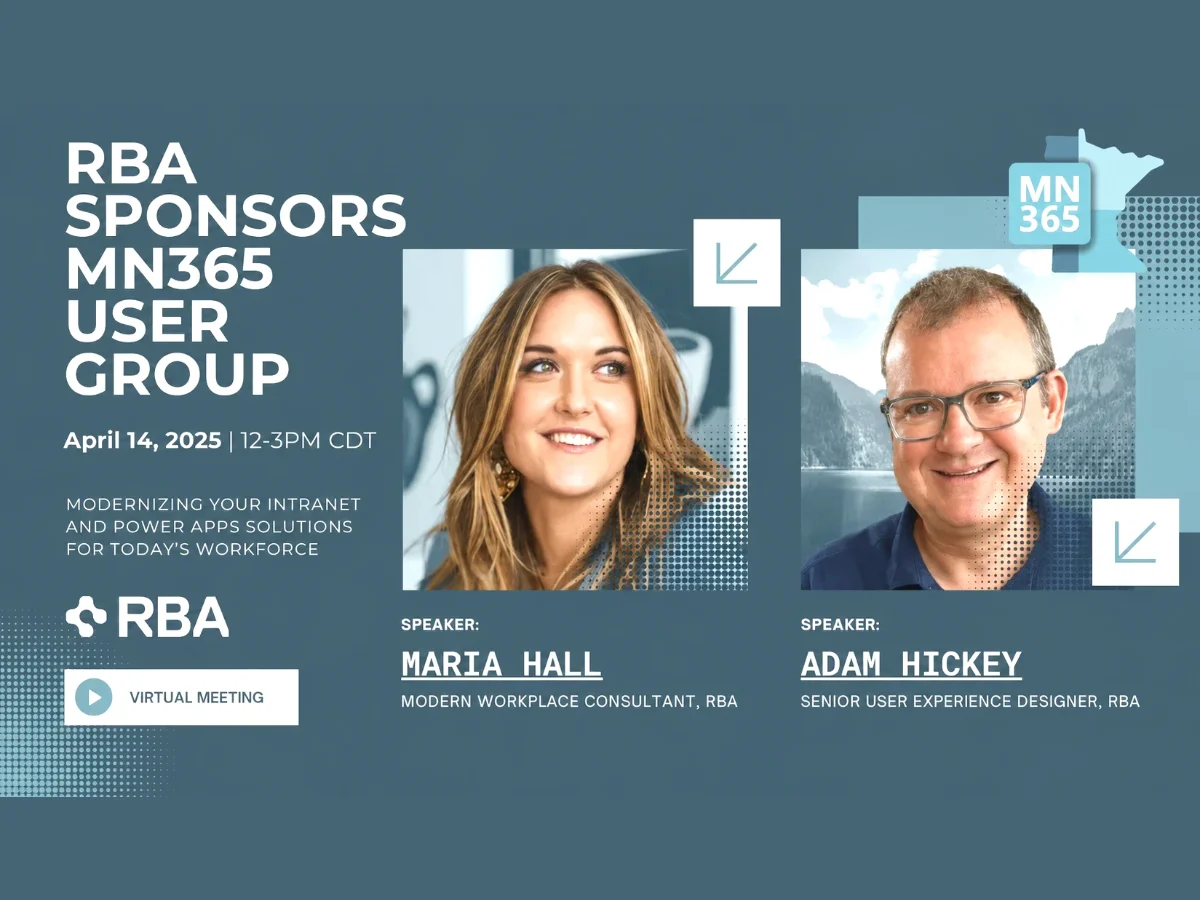
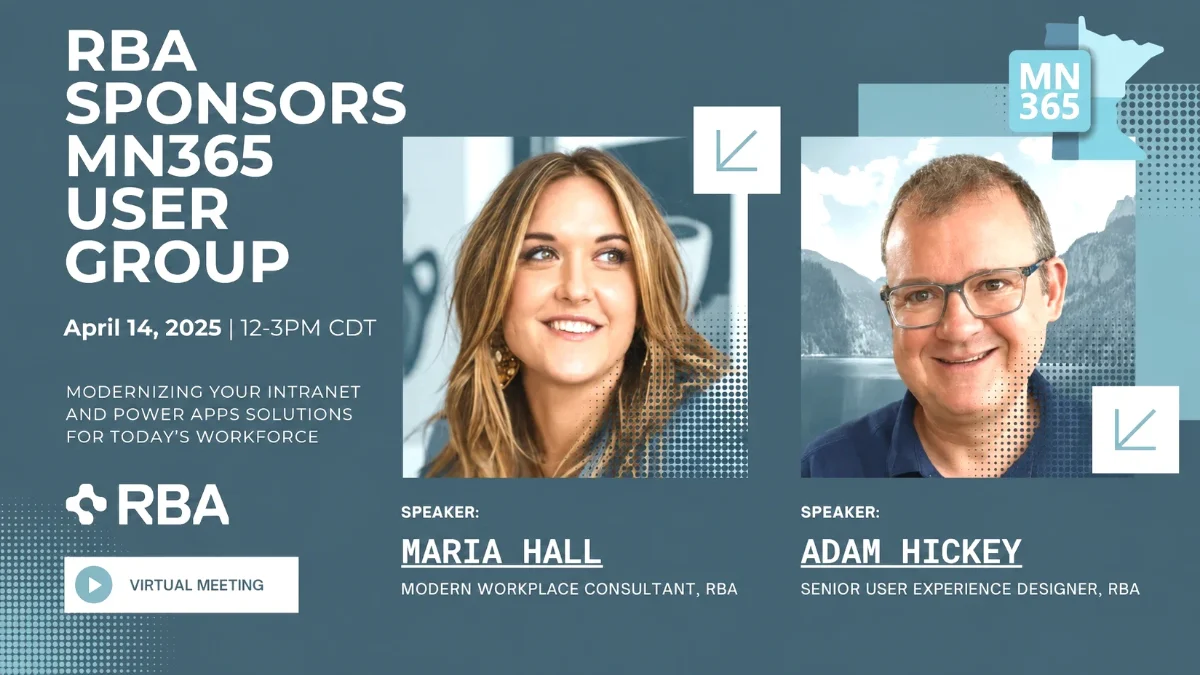
About: the three photographs sit in 16:9 frames instead of 4:3
Since #925 the About frames are 490px wide at 1440, and at 4:3 each stood
368px tall beside three or four lines of text. The frames are 16:9 now,
490x276 at 1440.

The thumbnails are recut to match rather than cropped again by
object-fit: each is the full-size file's centred 16:9 window at 1200x675,
written by Chromium at WebP 0.86. The tighter window moved the two
photographs off the set's mean luminance, so each takes its own exposure
shift back to 122 (craft-team -0.8, independent +5.1; 122.3 and 122.2
after encoding). The event card is a designed graphic and keeps its own
colors; at 16:9 it shows almost whole instead of letterboxed in its navy.

style.css's buster goes to 20261030s on every page that loads it, and the
three thumbnails' ?v= move with their bytes. The fast six pass, and the
six browser checks pass scoped to the homepage.

diff --git a/index.html b/index.html
@@ -123,7 +123,7 @@
   <link rel="stylesheet" href="color.css?v=12" />
   <link rel="stylesheet" href="shell.css?v=7" />
   <link rel="stylesheet" href="type.css?v=8" />
-  <link rel="stylesheet" href="style.css?v=20261030r" />
+  <link rel="stylesheet" href="style.css?v=20261030s" />
   <link rel="stylesheet" href="site-nav.css?v=20261030b" />
   <link rel="stylesheet" href="app-device.css?v=1" />
   <link rel="stylesheet" href="thumb-loop.css?v=11" />
@@ -1373,9 +1373,9 @@
         </div>
         <div class="still-copy about-beats">
           <div class="about-beat-row reveal">
-            <!-- All three frames crop to 4:3 and none of these pictures
-                 survives that, so each is a link that opens the whole thing
-                 in the lightbox at the bottom of the page. Without JS the
+            <!-- All three frames crop to 16:9 and none of these pictures
+                 survives that whole, so each is a link that opens the
+                 whole thing in the lightbox at the bottom of the page. Without JS the
                  href still resolves to the image file.
 
                  The three come from twenty years and three different kinds
@@ -1389,7 +1389,7 @@
                data-zoom-caption="The Pixel Farm studio, 2008"
                data-zoom-alt="The Pixel Farm studio gathered around the courtyard fountain, looking up at the camera from the balcony above."
                aria-label="Open the full photograph: the Pixel Farm studio gathered around the courtyard fountain, looking up at the camera from the balcony above.">
-              <img src="img/about/craft-team-thumb.webp?v=5" width="900" height="675" alt="" loading="lazy" decoding="async" />
+              <img src="img/about/craft-team-thumb.webp?v=6" width="1200" height="675" alt="" loading="lazy" decoding="async" />
               <span class="about-media-zoom" aria-hidden="true">
                 <svg viewBox="0 0 24 24" fill="none" stroke="currentColor" stroke-width="1.6" stroke-linecap="round" stroke-linejoin="round" aria-hidden="true"><path d="M15 3h6v6"/><path d="M9 21H3v-6"/><path d="M21 3l-7 7"/><path d="M3 21l7-7"/></svg>
               </span>
@@ -1399,15 +1399,15 @@
             </div>
           </div>
           <div class="about-beat-row reveal">
-            <!-- A 16:9 event card in a 4:3 frame: letterboxed on its own
-                 navy rather than cropped, since cutting the sides takes the
-                 title off it. Small type, so the lightbox is doing the real
-                 work here. -->
+            <!-- The event card is nearly 16:9 already, so the frame shows
+                 almost all of it: a few rows off the top and bottom, the
+                 title and both speakers kept. Small type, so the lightbox
+                 is doing the real work here. -->
             <a class="about-media" href="img/about/systems-talk.webp?v=4" data-zoom
                data-zoom-caption="MN365 user group, April 2025"
                data-zoom-alt="An event card: RBA sponsors the MN365 user group, April 14 2025, 12 to 3PM CDT, on modernizing your intranet and Power Apps solutions for today&rsquo;s workforce. Speakers Maria Hall, modern workplace consultant, and Adam Hickey, senior user experience designer."
                aria-label="Open the full event card: RBA sponsors the MN365 user group, April 2025, with Adam Hickey as one of two speakers.">
-              <img src="img/about/systems-talk-thumb.webp?v=5" width="1200" height="900" alt="" loading="lazy" decoding="async" />
+              <img src="img/about/systems-talk-thumb.webp?v=6" width="1200" height="675" alt="" loading="lazy" decoding="async" />
               <span class="about-media-zoom" aria-hidden="true">
                 <svg viewBox="0 0 24 24" fill="none" stroke="currentColor" stroke-width="1.6" stroke-linecap="round" stroke-linejoin="round" aria-hidden="true"><path d="M15 3h6v6"/><path d="M9 21H3v-6"/><path d="M21 3l-7 7"/><path d="M3 21l7-7"/></svg>
               </span>
@@ -1422,7 +1422,7 @@
                data-zoom-caption="Fabiola, Kylie and me"
                data-zoom-alt="Adam Hickey on the grass with his wife Fabiola and their dog Kylie, a flower garden in bloom behind them."
                aria-label="Open the full photograph: Adam Hickey on the grass with his wife Fabiola and their dog Kylie, a flower garden behind them.">
-              <img src="img/about/independent-thumb.webp?v=5" width="900" height="675" alt="" loading="lazy" decoding="async" />
+              <img src="img/about/independent-thumb.webp?v=6" width="1200" height="675" alt="" loading="lazy" decoding="async" />
               <span class="about-media-zoom" aria-hidden="true">
                 <svg viewBox="0 0 24 24" fill="none" stroke="currentColor" stroke-width="1.6" stroke-linecap="round" stroke-linejoin="round" aria-hidden="true"><path d="M15 3h6v6"/><path d="M9 21H3v-6"/><path d="M21 3l-7 7"/><path d="M3 21l7-7"/></svg>
               </span>

diff --git a/style.css b/style.css
@@ -3988,7 +3988,7 @@ figure.hero-photo-frame { margin: 0; }
   display: block;
   position: relative;
   overflow: hidden;
-  aspect-ratio: 4 / 3;
+  aspect-ratio: 16 / 9;
   max-width: 300px;
   border-radius: 0.75rem;
 }
@@ -4001,7 +4001,7 @@ figure.hero-photo-frame { margin: 0; }
   .about-media { max-width: none; }
 }
 
-/* Each frame opens its picture full size. The 4:3 crop is a window onto
+/* Each frame opens its picture full size. The 16:9 crop is a window onto
    something wider, so the corner badge has to say that there is more to
    see; a hover-only affordance would never appear on a phone, which is
    where the crop hides the most. */

diff --git a/prototype/dispatch-cockpit.html b/prototype/dispatch-cockpit.html
@@ -116,7 +116,7 @@
   <link rel="stylesheet" href="../color.css?v=12" />
   <link rel="stylesheet" href="../shell.css?v=7" />
   <link rel="stylesheet" href="../type.css?v=8" />
-  <link rel="stylesheet" href="../style.css?v=20261030r" />
+  <link rel="stylesheet" href="../style.css?v=20261030s" />
   <link rel="stylesheet" href="../site-nav.css?v=20261030b" />
   <!-- The chapters arrive as they are read. See reveal.css for why this is
        its own pair of files rather than style.css's .reveal. -->

diff --git a/case-study/door-county-found.html b/case-study/door-county-found.html
@@ -96,7 +96,7 @@
   <link rel="stylesheet" href="../color.css?v=12" />
   <link rel="stylesheet" href="../shell.css?v=7" />
   <link rel="stylesheet" href="../type.css?v=8" />
-  <link rel="stylesheet" href="../style.css?v=20261030r" />
+  <link rel="stylesheet" href="../style.css?v=20261030s" />
   <link rel="stylesheet" href="../site-nav.css?v=20261030b" />
   <!-- The chapters arrive as they are read. See reveal.css for why this is
        its own pair of files rather than style.css's .reveal. -->

diff --git a/case-study/faunaform.html b/case-study/faunaform.html
@@ -95,7 +95,7 @@
   <link rel="stylesheet" href="../color.css?v=12" />
   <link rel="stylesheet" href="../shell.css?v=7" />
   <link rel="stylesheet" href="../type.css?v=8" />
-  <link rel="stylesheet" href="../style.css?v=20261030r" />
+  <link rel="stylesheet" href="../style.css?v=20261030s" />
   <link rel="stylesheet" href="../site-nav.css?v=20261030b" />
   <!-- The chapters arrive as they are read. See reveal.css for why this is
        its own pair of files rather than style.css's .reveal. -->

diff --git a/case-study/lucy-learns.html b/case-study/lucy-learns.html
@@ -97,7 +97,7 @@
   <link rel="stylesheet" href="../color.css?v=12" />
   <link rel="stylesheet" href="../shell.css?v=7" />
   <link rel="stylesheet" href="../type.css?v=8" />
-  <link rel="stylesheet" href="../style.css?v=20261030r" />
+  <link rel="stylesheet" href="../style.css?v=20261030s" />
   <link rel="stylesheet" href="../site-nav.css?v=20261030b" />
   <!-- The chapters arrive as they are read. See reveal.css for why this is
        its own pair of files rather than style.css's .reveal. -->

diff --git a/case-study/this-site.html b/case-study/this-site.html
@@ -94,7 +94,7 @@
   <link rel="stylesheet" href="../color.css?v=12" />
   <link rel="stylesheet" href="../shell.css?v=7" />
   <link rel="stylesheet" href="../type.css?v=8" />
-  <link rel="stylesheet" href="../style.css?v=20261030r" />
+  <link rel="stylesheet" href="../style.css?v=20261030s" />
   <link rel="stylesheet" href="../site-nav.css?v=20261030b" />
   <!-- The chapters arrive as they are read. See reveal.css for why this is
        its own pair of files rather than style.css's .reveal. -->

diff --git a/lab/designing-motion.html b/lab/designing-motion.html
@@ -105,7 +105,7 @@
   <link rel="stylesheet" href="../color.css?v=12" />
   <link rel="stylesheet" href="../shell.css?v=7" />
   <link rel="stylesheet" href="../type.css?v=8" />
-  <link rel="stylesheet" href="../style.css?v=20261030r" />
+  <link rel="stylesheet" href="../style.css?v=20261030s" />
   <link rel="stylesheet" href="../site-nav.css?v=20261030b" />
   <script src="../site-nav.js?v=20260906a" defer></script>
   <!-- The header logo plays a one-shot reveal clip on load and fades out

diff --git a/writing/what-does-a-design-system-need-once-ai-is-in-the-product.html b/writing/what-does-a-design-system-need-once-ai-is-in-the-product.html
@@ -108,7 +108,7 @@
   <link rel="stylesheet" href="../color.css?v=12" />
   <link rel="stylesheet" href="../shell.css?v=7" />
   <link rel="stylesheet" href="../type.css?v=8" />
-  <link rel="stylesheet" href="../style.css?v=20261030r" />
+  <link rel="stylesheet" href="../style.css?v=20261030s" />
   <link rel="stylesheet" href="../design-psychology.css?v=9" />
   <link rel="stylesheet" href="../site-nav.css?v=20261030b" />
   <link rel="stylesheet" href="../read-aloud.css?v=7" />

diff --git a/writing/who-decides-when-software-can-act-on-its-own.html b/writing/who-decides-when-software-can-act-on-its-own.html
@@ -112,7 +112,7 @@
   <link rel="stylesheet" href="../color.css?v=12" />
   <link rel="stylesheet" href="../shell.css?v=7" />
   <link rel="stylesheet" href="../type.css?v=8" />
-  <link rel="stylesheet" href="../style.css?v=20261030r" />
+  <link rel="stylesheet" href="../style.css?v=20261030s" />
   <link rel="stylesheet" href="../design-psychology.css?v=9" />
   <link rel="stylesheet" href="../site-nav.css?v=20261030b" />
   <link rel="stylesheet" href="../read-aloud.css?v=7" />

diff --git a/case-study/while-were-here.html b/case-study/while-were-here.html
@@ -96,7 +96,7 @@
   <link rel="stylesheet" href="../color.css?v=12" />
   <link rel="stylesheet" href="../shell.css?v=7" />
   <link rel="stylesheet" href="../type.css?v=8" />
-  <link rel="stylesheet" href="../style.css?v=20261030r" />
+  <link rel="stylesheet" href="../style.css?v=20261030s" />
   <link rel="stylesheet" href="../site-nav.css?v=20261030b" />
   <link rel="stylesheet" href="../read-aloud.css?v=7" />
   <script src="../site-nav.js?v=20260906a" defer></script>

diff --git a/writing/how-should-you-test-a-product-now-that-ai-can-help.html b/writing/how-should-you-test-a-product-now-that-ai-can-help.html
@@ -116,7 +116,7 @@
   <link rel="stylesheet" href="../color.css?v=12" />
   <link rel="stylesheet" href="../shell.css?v=7" />
   <link rel="stylesheet" href="../type.css?v=8" />
-  <link rel="stylesheet" href="../style.css?v=20261030r" />
+  <link rel="stylesheet" href="../style.css?v=20261030s" />
   <link rel="stylesheet" href="../site-nav.css?v=20261030b" />
   <link rel="stylesheet" href="../read-aloud.css?v=7" />
   <link rel="stylesheet" href="../related.css?v=2" />
